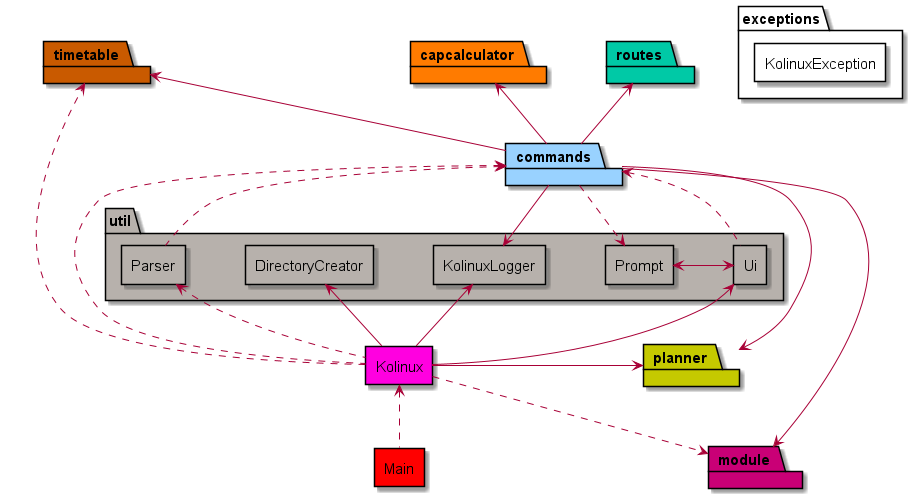
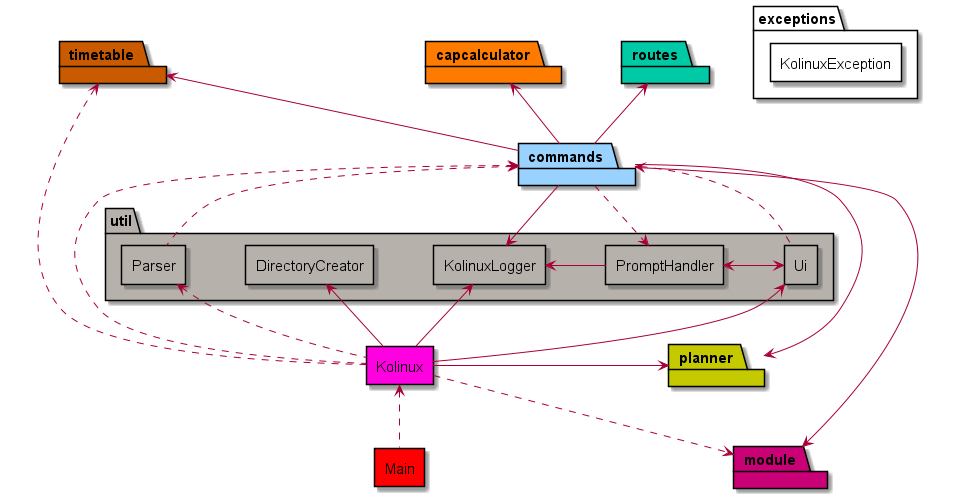
Various diagram and DG updates according to design revamp

diff --git a/docs/DeveloperGuide.md b/docs/DeveloperGuide.md
@@ -72,7 +72,7 @@ The application consists of the following main components responsible for the hi
    * `util.Parser`: Makes sense from the user input and decides which `Command` class to initialize.
    * `util.DirectoryCreator`: Ensures the `/data` directory is created and present for data storage.
    * `util.KolinuxLogger`: Logs the user activity into `data/logger.log`.
-   * `util.Prompt`: Created when user confirmation is required to perform certain operations.
+   * `util.PromptHandler`: Handles prompts when user confirmation is required to perform certain operations.
 3. `commands`: Collection of user commands that determines execution.
 4. `routes`: Collection of classes used by Bus Route Finder feature.
 5. `module`: Collection of classes used by Module Manager feature.
@@ -96,9 +96,7 @@ The class diagram below describes the structure of the `commands` component.
 ![Commands Class Diagram](assets/images/CommandsClassDiagram.png)
 
 All `Command` classes inherit from the abstract `Command` class, which has an association with `KolinuxLogger` so that
-every command execution has a corresponding log in `data/logger.log`. `Command` also has a dependency on `Prompt`,
-which functions to seek user confirmation below proceeding with the operation. Only `PlannerCommand` is using this
-inherited attributed in the current version. The structure between each individual command and other components are 
+every command execution has a corresponding log in `data/logger.log`. The structure between each individual command and other components are 
 also shown in the diagram above. These structures will be further elaborated in the sections below.
 
 #### Module Component
@@ -262,14 +260,14 @@ likewise it will throw an exception.
 
 ### Add to Planner feature
 
-The Add to Planner mechanism is mainly facilitated by `PlannerCommand` and `Planner`. After entering the appropriate
+The Add to Planner mechanism is mainly facilitated by `PlannerCommand`, `Planner`, and `PlannerPromptHandler`. After entering the appropriate
 input to add an `Event` to the `Planner`, `PlannerCommand` is constructed with `subCommand` `add` and the
 relevant `parsedArguments`. The constructor of `PlannerCommand` involves creation of `Planner` and `PlannerStorage`
 to initialize the adding and writing to file operations.
 
 Before the `Event` is added, it is first checked for any time conflicts with existing events/lessons/exams. `Event`s
 are only added if there are no time conflicts or the user allowed the addition of the conflicted `Event` through a
-`Prompt` to get a confirmation from the user. `Event`s added to the `Planner` are stored in a list
+prompt to get a confirmation from the user. `Event`s added to the `Planner` are stored in a list
 `scheduleOfAllDates` which contains all added `Event`s by the user. The data in this list is also written to the
 internal storage `data/planner.txt` through `PlannerStorage` which saves the user data locally.
 
@@ -281,7 +279,7 @@ the following methods:
     * `PlannerStorage#writeFile(String data)`: Appends the data of the newly added `Event` to `data/planner.txt` for 
       local storage.
 
-* `PlannerCommand#getReplyFromPrompt(String question)`: Gets user confirmation to allow or cancel the add operation
+* `PlannerPromptHandler#getReplyFromPrompt()`: Gets user confirmation to allow or cancel the add operation
 in case of a time conflict.
 
 The figures below represent the sequence diagrams of the Add to Planner mechanism:
@@ -548,5 +546,5 @@ should be able to accomplish most of the tasks faster using commands than using 
     times respectively which overlaps with any of the events listed.
    
        Expected: Event is not added to the list. A message will be shown seeking permission to proceed with the
-       operation. Entering `y` will lead to a success message, while anything else will lead to the operation cancelled.
+       operation. Entering `y` will lead to a success message, while entering 'n' will lead to the operation cancelled. Entering anything else will repeat the prompt.
 
